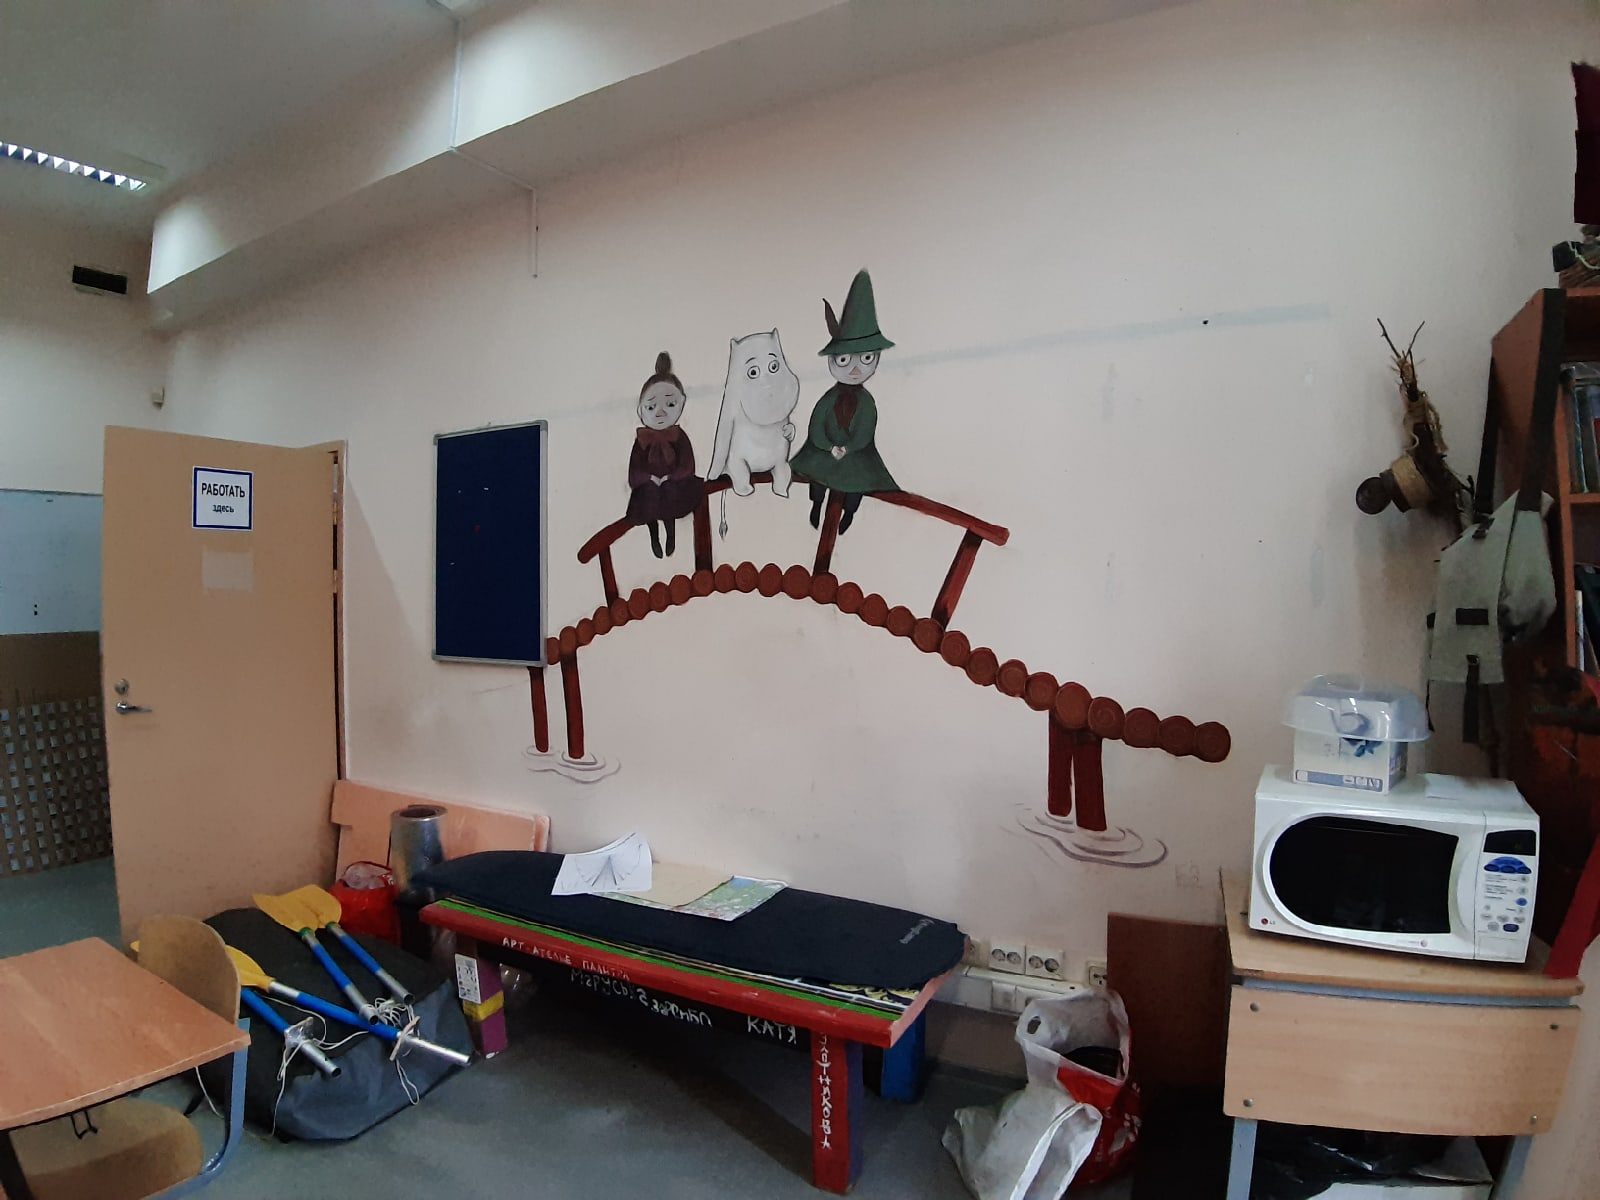
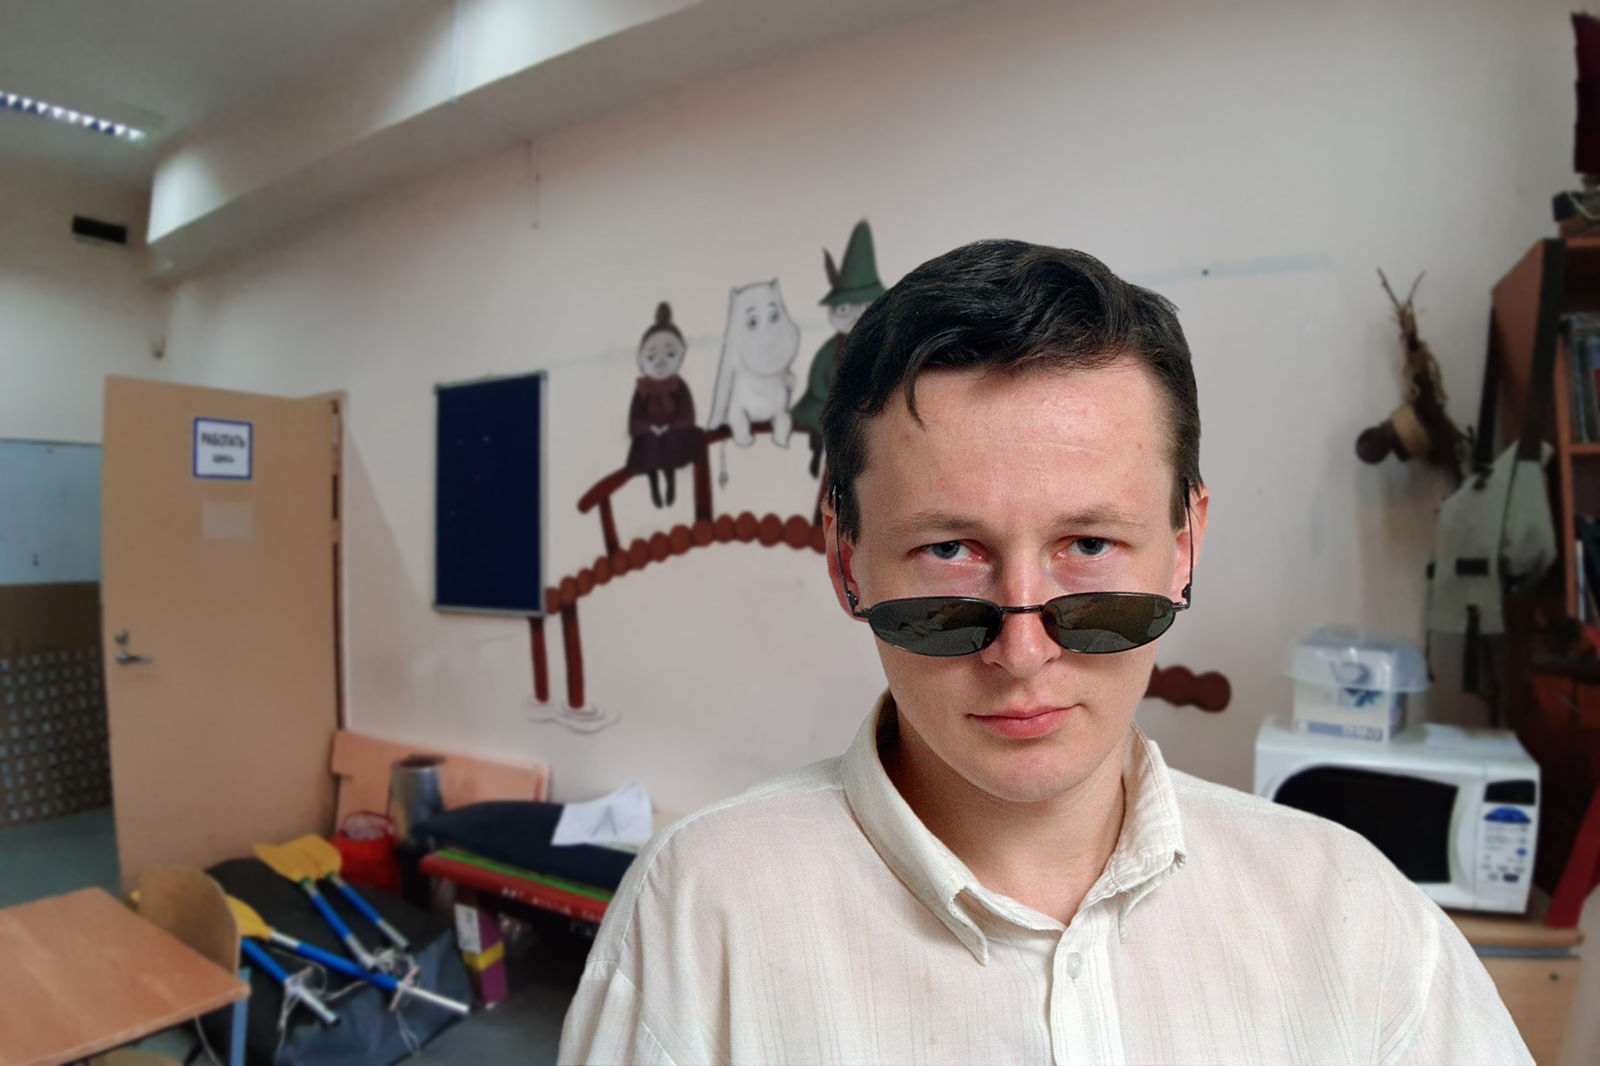
add Felimonov

diff --git a/src/English.html b/src/English.html
@@ -10,6 +10,9 @@
 <body>
     <div class="action-space">
         <img src="../img/NataliaV.jpg" alt="Наталья Валерьевна" class="screen-image card">
+        <img src="../img/NV_desk.jpg" alt="" class="secret">
+        <img src="../img/NV_clock.jpg" alt="" class="secret">
+        <img src="../img/NataliaV.jpg" class="secret">
         <img src="../img/Villiam_Pear.jpg" alt="" class="secret">
         <img src="../img/NataliaV.jpg" alt="Наталья Валерьевна" class="secret">
     </div>
@@ -18,11 +21,10 @@
         <p>- Hello, <span class="username">Friend</span>! How are you? :)</p>
         <p>- Oh... I am not so happy.</p>
         <p>- <span class="username">My Dear</span>, what's the matter?</p>
-        <p>- I have a lot of problems with all my school subjects... Especially with English, I think, You know it.</p>
-        <p>- Yes, I do... And I'm going to help you! :)</p>
-        <p>- But how? I'm tired, so I can't rewrite a test to get a good mark...</p>
-        <p>- Oh... I sympathise with you deeply... Oh, I know, what to do! I have a nice thing to get your grades up and
-            make you less sleepy. I have an interesting quiz!</p>
+        <p next-slide="true">- I have a lot of problems with all my school subjects... Especially with English, I think, You know it.</p>
+        <p next-slide="true">- Yes, I do... And I'm going to help you! :)</p>
+        <p next-slide="true">- But how? I'm tired, so I can't rewrite a test to get a good mark...</p>
+        <p>- Oh... I sympathise with you deeply... Oh, I know, what to do! I have a nice thing to get your grades up and make you less sleepy. I have an interesting quiz!</p>
         <p>- Hmmmm... OK.</p>
         <p>- OK, let's begin!</p>
         <p class="quiz" ok="Yes! :)">
@@ -33,8 +35,7 @@
             <span>[*Непередаваемые звуки из Преисподней*]</span>
         </p>
         <p class="quiz" ok="Yes! :)">
-            He was sitting on a <u>sill</u> hidden behind the curtains. Which word is the best to describe the meaning of the
-            underlined word?<br>
+            He was sitting on a <u>sill</u> hidden behind the curtains. Which word is the best to describe the meaning of the underlined word?<br>
             <span>Холм</span>
             <span class="right">Подоконник</span>
             <span>Барьер</span>
@@ -48,8 +49,7 @@
             <span>Как печеньку у младенца отобрать!</span>
         </p>
         <p class="quiz" ok="Yes! :)" next-slide="true">
-            Which sentence is the best to describe the meaning of the
-            this picture?<br>
+            Which sentence is the best to describe the meaning of the this picture?<br>
             <span>How to spell the playwright’s full name.</span>
             <span>How to pronounce the name of the fruit.</span>
             <span>An example of the Present Simple tense.</span>
@@ -62,14 +62,14 @@
             <span>graduator</span>
             <span class="right">school leaver</span>
         </p>
-       <div class="quiz-failures">
+        <div class="quiz-failures">
             <span>No!</span>
             <span>Wrong!</span>
             <span>Try again...</span>
         </div>
         <p>- Yohoo! You've passed the test! Thank you, good luck, have fun!</p>
         <p>- No, thank YOU!!! :)</p>
-        <a href="./" class="next">Дальше</a>
+        <a href="./BAN.html" class="next">Дальше</a>
     </div>
 </body>
 

diff --git a/src/pencil.html b/src/pencil.html
@@ -10,12 +10,15 @@
 <body>
     <div class="action-space">
         <img src="../img/pencil_down.jpg" alt="Карандаш" class="screen-image card">
+        <img src="../img/Felimonov.jpg" alt="" class="secret">
+        <img src="../img/pencil_down.jpg" alt="" class="secret">
     </div>
     <div class="interaction-space">
-        <p> Да уж, народу тут тьма! Должно быть, все готовятся к празднику. Ну и суета! 
-        </p>
-        <p>О, а там должно быть выпускники. Э-э-эх, как бы хорошо сейчас было бы быть одним из них: праздники для тебя проводят :) </p>
-        <p>А это там кто? Похоже, что это Алла Валентиновна у карандаша. Блин...</p>
+        <p>Да уж, народу тут тьма! Должно быть все готовятся к празднику. Ну и суета! </p>
+        <p next-slide="true">- Ой, здравствуйте Алексей Владимирович! Э.. Вы сегодня на последнем звонке будете?</p>
+        <p>- Здравствуй. Да, я планировал сегодня выступить для вас.</p>
+        <p><input type="text" placeholder="Попробуй меня отвлечь" data-answer="заборчики" data-ok="Хорошо. Я тогда поду..." data-retry="Не отвлекай, я слушаю!" data-attempts="1000" data-bad="" /></p>
+        <p next-slide="true">Все готовятся к празднику. Вот почему они не учатся, а я должен? Не хочу. Эххх, как бы хорошо сейчас было бы быть одним из них: свободен, никаких уроков, суеты :) Так, а там Алла Валентиновна, вроде как, у карандаша. Блин...</p>
         <p>*За спиной звенит звонок* <br> Отлично! Пробегу, пока все суетятся! Через карандаш - заметят, пойду-ка я лучше на боковую лестницу.</p>
         <a href="./Stairs_to_AA.html" class="next">Дальше</a>
     </div>

diff --git a/src/at_AA.html b/src/at_AA.html
@@ -14,9 +14,10 @@
     <div class="interaction-space">
         <p>Ну что ж, придется встретиться со своими неприятностями лицом к лицу...</p>
         <p>- Здравствуйте, Анна Анатольевна!</p>
-        <p>- Не ожидала тебя тут увидеть, <span class="username">уважаемый</span>. Как не странно, про тебя ничего мы не говорили. Ты почему не на уроке? На тебя все жалуются, мол <span class="username">такой-то</span> имеет долги почти по всем предметам, да ещё и по спецкурсам.</p>
+        <p>- Не ожидала тебя тут увидеть, <span class="username">уважаемый</span>. Как не странно, про тебя ничего мы не говорили. Ты почему не на уроке? На тебя все жалуются, мол <span class="username">такой-то</span> имеет долги почти по всем предметам,
+            да ещё и по спецкурсам.</p>
         <p>:(</p>
-        <p>- Знаешь что, <span class="username">хороший мой</span>, отправляйся-ка ты по учителям и разберись со всем сам. Вот за что вы мне такие дались, что всё в последний момент? Жду тебя с результатами.</p>
+        <p>- Знаешь что, <span class="username">хороший мой</span>, отправляйся-ка ты по учителям и разберись со всем сам. Вот что ж вы мне такие дались-то, что всё в последний момент? :) Жду тебя с результатами.</p>
         <p>- Хорошо, постараюсь.</p>
         <p>- Так иди быстрее. Константин Михайлович сейчас, вроде как, свободен, иди сперва к нему. Удачи.</p>
         <p>Ну что ж, придется идти и исправлять оценки...</p>

diff --git a/src/chemestry_entry.html b/src/chemestry_entry.html
@@ -9,14 +9,15 @@
 
 <body>
     <div class="action-space">
-        <img src="../img/Volovik.jpg" alt="" class="screen-image card">
+        <img src="../img/tennis_near_Minar.jpg" alt="" class="screen-image card">
+        <img src="../img/Volovik.jpg" alt="" class="secret">
     </div>
     <div class="interaction-space">
         <p>Так, мне всё же надо добраться к химикам.</p>
-        <p>*Звук небольшого, но громкого взрыва*<br> "Что там за взрыв, Фёдор?! Вон из лаборатории!"</p>
+        <p sound="volovik.mp3">*Звук небольшого, но громкого взрыва*<br> "Что там за взрыв, Фёдор?! Вон из лаборатории!"</p>
         <p>Ой... Мне кажется, что у Владимира Борисовича сейчас не лучшее настроение... Но попытка не пытка.</p>
         <p>*Тук-тук-тук*</p>
-        <p>- Владимир Борисович, можно войти? Я Вас не отвлекаю?</p>
+        <p next-slide="true">- Владимир Борисович, можно войти? Я Вас не отвлекаю?</p>
         <p>- Здравствуй, <span class="username">дорогой</span>. Что, ко мне решил зайти в последний день? А помнишь ли ты, что оценки, полученные за последнюю четверть, исправлению не подлежат?</p>
         <p>- Да... Помню... Но нельзя ли мне как-нибудь поправить ситуацию? Ну вот химия в меня совсем никак не лезет...</p>
         <p>- Да я посмотрю на вас всех - ни в кого химия не лезет, что ни делай!</p>

diff --git a/src/Zarembnik.html b/src/Zarembnik.html
@@ -16,8 +16,7 @@
         <p>- Когда вы так говорите, решение имеет еще 10 подпунктов...</p>
         <p>Коварная ухмылка проскочила на лице Алексея Геннадиевича.</p>
         <p>- Хаха. Да, я Тиран-деспот, коварен, капризен, злопамятен. И самое обидное, не я в этом виноват. Не виноват! Предки виноваты! Прадеды-прабабки, внучатые дяди-тети разные, праотцы, ну, и праматери, угу. В жизни вели себя как свиньи последние, а
-            сейчас я расхлебывай их прошлое. Хехе :)</p>
-        <p>Из какого произведения? Угадал?</p>
+            сейчас я расхлебывай их прошлое. Хехе :)<br>Из какого произведения? Угадал?</p>
         <p><input type="text" placeholder="место для ответа" data-answer="44545" data-ok="Молодец!" data-retry="Попробуй еще раз..." data-attempts="3" data-bad="Эх ты! Классику не читаешь, что ж за поколение такое! :) Это &laquoОбыкновенное чудо&raquo."
             /></p>
         <p>Ладно уж, решай задачки.</p>

diff --git a/src/raise_ball_from_Minar.html b/src/raise_ball_from_Minar.html
@@ -14,8 +14,8 @@
     </div>
     <div class="interaction-space">
         <p>«Так, теперь направлюсь к химикам, надеюсь, с ними быстро договорюсь. Ой, там Елена Алексеевна, в таком случае, сперва нужно разобраться со спортивным зачетом»-подумал я. </p>
-        <p>Но тут меня прервал возглас Елены Алексеевны:</p>
-        <p next-slide="true" sound="popova.mp3">- А-а-а-а, <span class="username">дорогой</span>, ну здравствуй!</p>
+        <p sound="popova.mp3"> Ой, меня, кажется, заметила Елена Алексеевна...</p>
+        <p next-slide="true">- А-а-а-а, <span class="username">дорогой</span>, ну здравствуй!</p>
         <p>Елена... Здравствуйте, Алексеевна. Ой, то есть я хотел сказать: "Здравствуйте, Елена Алексеевна!"
         </p>
         <p>- И я рада тебя видеть. Хм... Не мог бы ты подать теннисный мячик, а то он куда-то в кабинет Минарского закатился, а после этого обсудим твой зачет.

diff --git a/src/Minar_sleep.html b/src/Minar_sleep.html
@@ -12,7 +12,7 @@
         <img src="../img/Minar_sleep.jpg" alt="" class="screen-image card">
     </div>
     <div class="interaction-space">
-        <p>Какая тут тишина, как будто нет никого. А нет, тут просто спит Минарский... Так, ладно, не СТОит задерживаться... Его лучше не тревожить. </p>
+        <p sound="minar_snore">Какая тут тишина, как будто нет никого. А нет, тут просто спит Минарский... Так, ладно, не СТОит задерживаться... Его лучше не тревожить. </p>
         <p>Хм, а где же мячик?</p>
         <a href="./raise_ball_Minar_game.html" class="next">Дальше</a>
     </div>

diff --git a/src/cup_qwiz_1.html b/src/cup_qwiz_1.html
@@ -12,7 +12,7 @@
         <img src="../img/cup_Kaliyants.jpg" alt="Кружка :)" class="screen-image card">
     </div>
     <div class="interaction-space">
-        <p class="quiz">Чья же это кружка? Такая миленькая, с котиками. Хм... Может забрать её себе?<br>
+        <p class="quiz" ok="Точно! Как же я сразу не догадался">Чья же это кружка? Такая миленькая, с котиками. Хм... Может забрать её себе?<br>
             <span>Елена Алексеевна Попова</span>
             <span class="right">Оксана Владимировна Калиянц</span>
             <span>Наталья Валерьевна Лысенко</span>

diff --git a/src/cup_qwiz_2.html b/src/cup_qwiz_2.html
@@ -12,7 +12,7 @@
         <img src="../img/CUP_Kudasova.jpg" alt="Кружка :)" class="screen-image card">
     </div>
     <div class="interaction-space">
-        <p class="quiz">О, там за кружка с собакой. Миленькая собачка. Чья же это?<br>
+        <p class="quiz" ok="Да, было дело, Елена Аркадьевна пила из неё чай">О, там за кружка с собакой. Миленькая собачка. Чья же это?<br>
             <span>Татьяна Григорьевна Елесеева</span>
             <span>Валерий Адольфович Рыжик</span>
             <span>Сергей Ефимович Столяр</span>

diff --git a/src/cup_qwiz_3.html b/src/cup_qwiz_3.html
@@ -12,7 +12,7 @@
         <img src="../img/cup_Amosova.jpg" alt="Кружка :)" class="screen-image card ">
     </div>
     <div class="interaction-space ">
-        <p class="quiz">Позитивненькая кружка :)<br>
+        <p class="quiz" ok="А я думаю, ну вот знакомая же чашка!">Позитивненькая кружка :)<br>
             <span class="right">Людмила Ивановна Амосова</span>
             <span>Татьяна Ивановна Иванова</span>
             <span>Галина Аркадьевна Новикова</span>

diff --git a/src/to_3d_floor.html b/src/to_3d_floor.html
@@ -11,7 +11,6 @@
     <div class="action-space">
         <img src="../img/Out_on_pencil.jpg" alt="Карандаш" class="screen-image card">
         <img src="../img/Monument_GI.jpg" alt="" class="secret">
-        <img src="../img/GI.jpg" alt="" class="secret">
         <img src="../img/people_on_3rd_floor.jpg" alt="" class="secret">
     </div>
     <div class="interaction-space">
